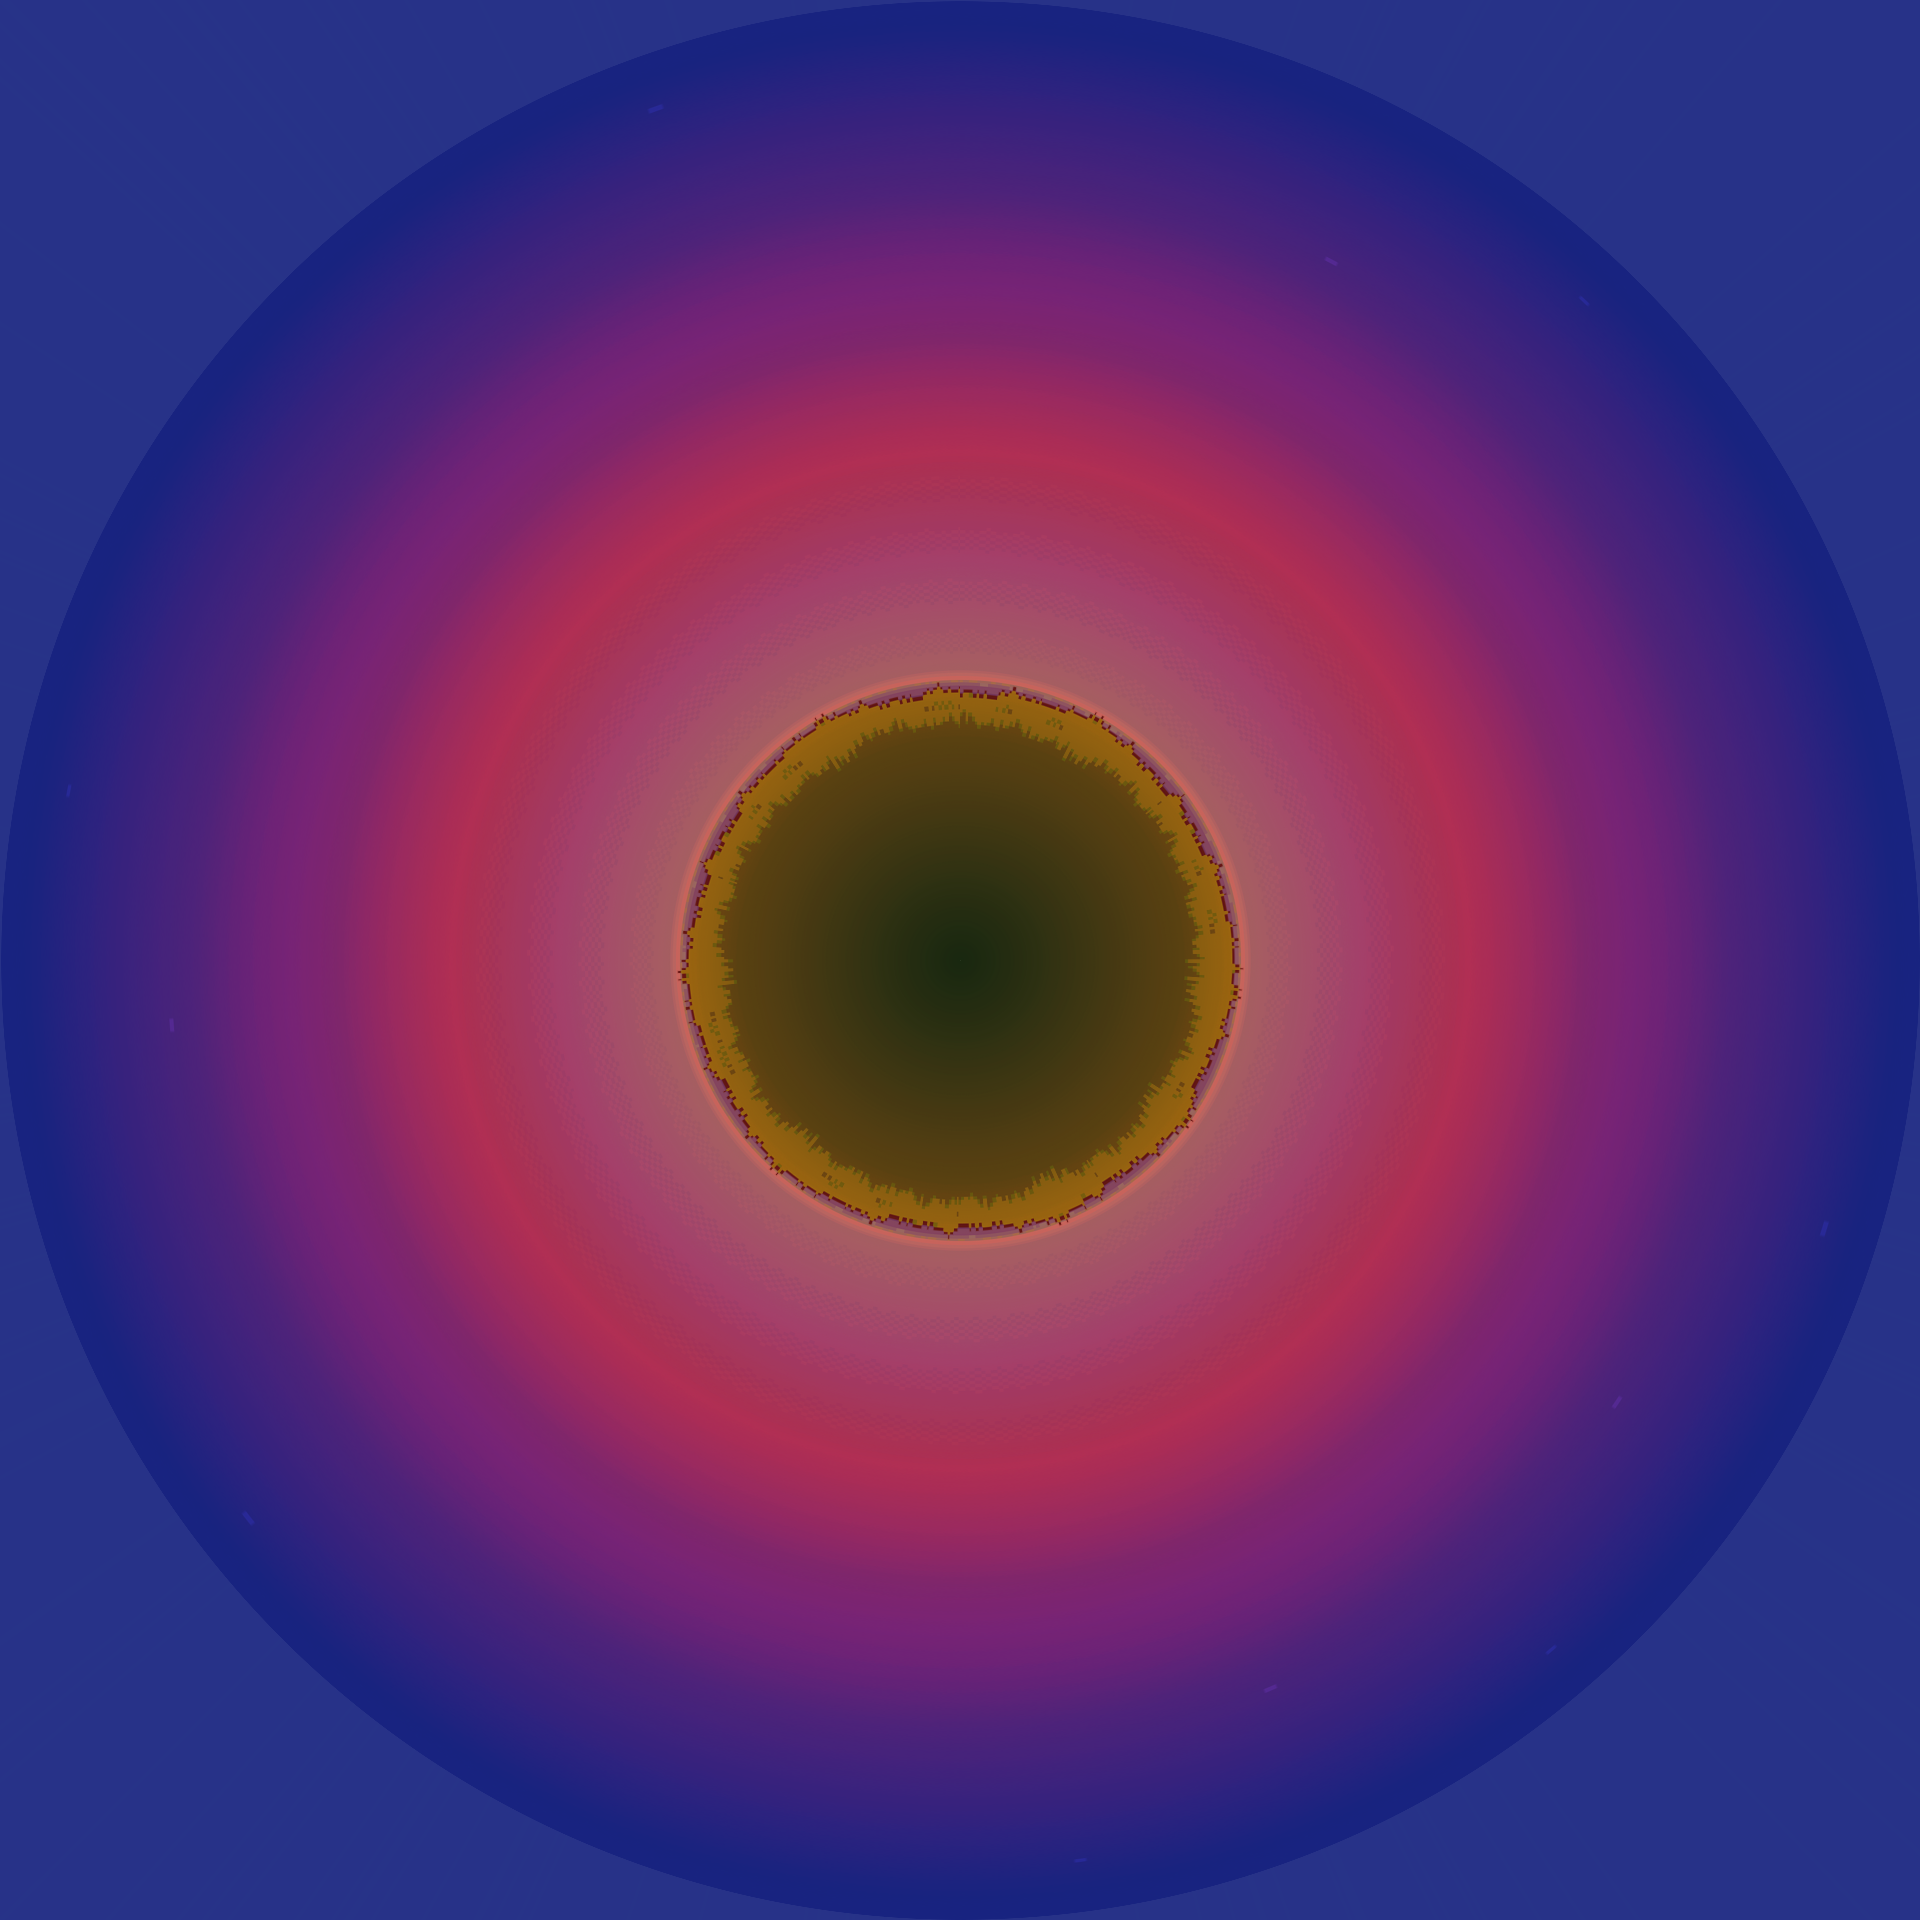
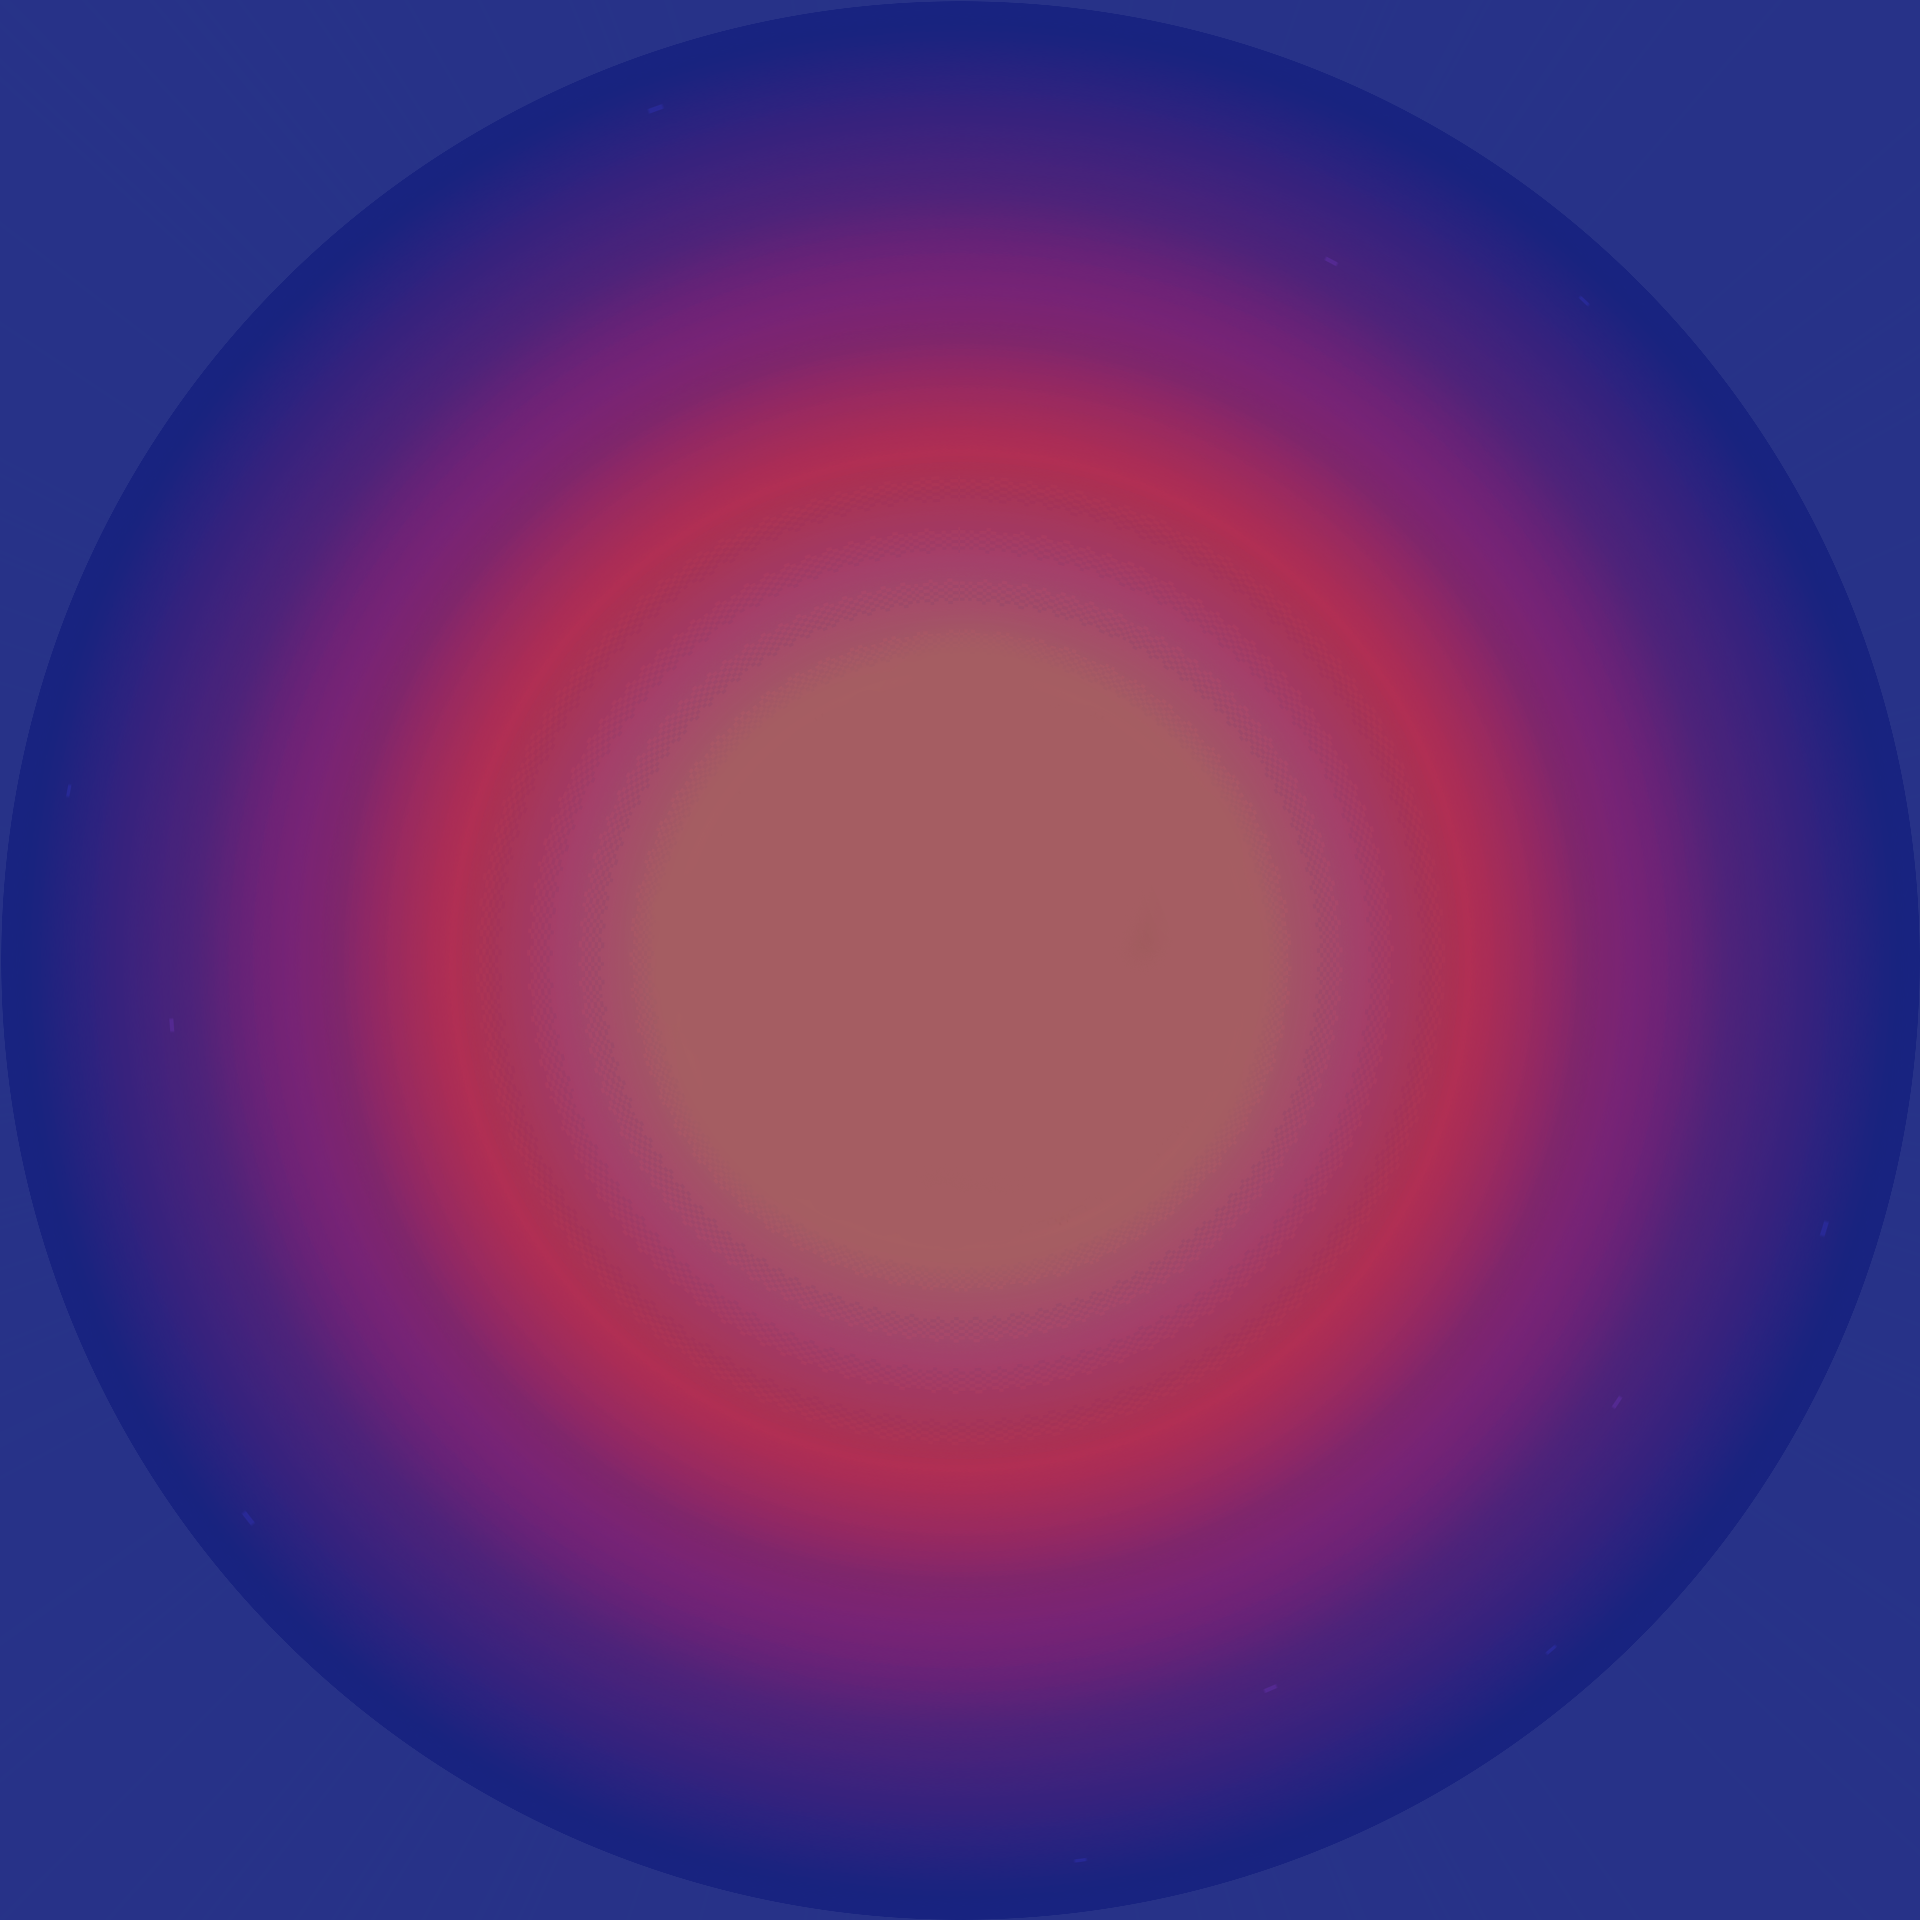
Fixed Background and sun textures. Able to adjust planet radius, sun radius and its distance from the planets surface

Changed region(s): [[0.3438, 0.3438, 0.6562, 0.6562]]

diff --git a/AlpacGame/scenery/DayCycle/DayCycle.cpp b/AlpacGame/scenery/DayCycle/DayCycle.cpp
@@ -1,5 +1,7 @@
+#include <vector>
 
 #include "DayCycle.h"
+
 
 // TODO: IMPORTANT Fix Background Size and Origin with different PlanetSize. :(
 
@@ -14,18 +16,22 @@ DayCycle::DayCycle(ConfigGame *configGame) {
     float world_y = configGame->planetBody->GetWorldCenter().y * SCALE;
 
     /// Intialize Background
-    background = new sf::CircleShape(1920+ configGame->planetRadius/2 );
-    background->setOrigin(1920+ configGame->planetRadius/2, 1920+ configGame->planetRadius/2);
+    background = new sf::CircleShape(3000 );
+    background->setOrigin(3000, 3000);
     background->setPosition(world_x, world_y);
     background->setTexture(&configGame->morning_1);
+
+    earth = new sf::CircleShape(configGame->planetRadius+30);
+    earth->setOrigin(configGame->planetRadius+30, configGame->planetRadius +30);
+    earth->setPosition(world_x, world_y);
+    earth->setTexture(&configGame->earth_1);
 
     /// Initialize Sun
     sun = new sf::CircleShape(sunRadius);
     sun->setOrigin(sunRadius, sunRadius);
     sun->setTexture(&configGame->sun_1);
 
-    /// Iterate amove the pictures
-    currentBG = backgroundCycle::MORNING_1;
+    /// Iterate amove the picture
 
     //Reset timer right away
     cycleChrono.reset(true);
@@ -39,74 +45,69 @@ DayCycle::DayCycle(ConfigGame *configGame) {
     float dayTime = cycleTime * 12;
     sunTick = 1.f / ((23.f * dayTime) / 2);
 
+    bgCycle.push_back(&configGame->morning_1);
+    bgCycle.push_back(&configGame->morning_2);
+    bgCycle.push_back(&configGame->morning_3);
+    bgCycle.push_back(&configGame->afternoon_4);
+    bgCycle.push_back(&configGame->afternoon_5);
+    bgCycle.push_back(&configGame->afternoon_6);
+    bgCycle.push_back(&configGame->evening_7);
+    bgCycle.push_back(&configGame->evening_8);
+    bgCycle.push_back(&configGame->evening_9);
+    bgCycle.push_back(&configGame->night_10);
+    bgCycle.push_back(&configGame->night_11);
+    bgCycle.push_back(&configGame->night_12);
+
+    earthCycle.push_back(&configGame->earth_1);
+    earthCycle.push_back(&configGame->earth_2);
+    earthCycle.push_back(&configGame->earth_3);
+    earthCycle.push_back(&configGame->earth_4);
+    earthCycle.push_back(&configGame->earth_5);
+    earthCycle.push_back(&configGame->earth_6);
+    earthCycle.push_back(&configGame->earth_7);
+    earthCycle.push_back(&configGame->earth_8);
+    earthCycle.push_back(&configGame->earth_9);
+    earthCycle.push_back(&configGame->earth_10);
+    earthCycle.push_back(&configGame->earth_11);
+    earthCycle.push_back(&configGame->earth_12);
+
+
     
-    
-}
-
-void DayCycle::loopDayCycle() {
-
-    switch(currentBG){
-        /// Day Starts
-        case backgroundCycle ::MORNING_1:{
-            background->setTexture(&configGame->morning_1);
-            sun->setTexture(&configGame->sun_1);
-            configGame->setCurrentCycle(ConfigGame::Cycle::DAY);
-            break;}
-        case backgroundCycle ::MORNING_2:{      background->setTexture(&configGame->morning_2); break;}
-        case backgroundCycle ::MORNING_3:{      background->setTexture(&configGame->morning_3); break;}
-        case backgroundCycle ::AFTERNOON_4:{    background->setTexture(&configGame->afternoon_4);   sun->setTexture(&configGame->sun_2);   break;}
-        case backgroundCycle ::AFTERNOON_5:{    background->setTexture(&configGame->afternoon_5); break;}
-        case backgroundCycle ::AFTERNOON_6:{    background->setTexture(&configGame->afternoon_6); break;}
-
-            /// Night Starts TODO:
-        case backgroundCycle ::EVENING_7:{
-            background->setTexture(&configGame->evening_7);
-            sun->setTexture(&configGame->moon_1);
-            configGame->setCurrentCycle(ConfigGame::Cycle::NIGHT);
-            break;}
-        case backgroundCycle ::EVENING_8:{      background->setTexture(&configGame->evening_8); break;}
-        case backgroundCycle ::EVENING_9:{     background->setTexture(&configGame->evening_9); break;}
-        case backgroundCycle ::NIGHT_10:{      background->setTexture(&configGame->night_10); break;}
-        case backgroundCycle ::NIGHT_11:{      background->setTexture(&configGame->night_11); break;}
-        case backgroundCycle ::NIGHT_12:{      background->setTexture(&configGame->night_12); break;}
-    }
-
 }
 
 void DayCycle::update(){
     updateSunMovement();
 
-
     if(cycleChrono.getElapsedTime().asSeconds() >= cycleTime){
 
-        if(currentBG == backgroundCycle::MORNING_1)         currentBG = backgroundCycle ::MORNING_2;
-        else if(currentBG == backgroundCycle::MORNING_2)    currentBG = backgroundCycle ::MORNING_3;
-        else if(currentBG == backgroundCycle::MORNING_3)    currentBG = backgroundCycle ::AFTERNOON_4;
-        else if(currentBG == backgroundCycle::AFTERNOON_4)  currentBG = backgroundCycle ::AFTERNOON_5;
-        else if(currentBG == backgroundCycle::AFTERNOON_5)  currentBG = backgroundCycle ::AFTERNOON_6;
-        else if(currentBG == backgroundCycle::AFTERNOON_6)  currentBG = backgroundCycle ::EVENING_7;
-        else if(currentBG == backgroundCycle::EVENING_7)    currentBG = backgroundCycle ::EVENING_8;
-        else if (currentBG == backgroundCycle::EVENING_8)   currentBG = backgroundCycle ::EVENING_9;
-        else if(currentBG == backgroundCycle::EVENING_9)    currentBG = backgroundCycle ::NIGHT_10;
-        else if(currentBG == backgroundCycle::NIGHT_10)     currentBG = backgroundCycle ::NIGHT_11;
-        else if(currentBG == backgroundCycle::NIGHT_11)     currentBG = backgroundCycle ::NIGHT_12;
-        else if (currentBG == backgroundCycle::NIGHT_12)    currentBG = backgroundCycle ::MORNING_1;
+        counterBackground++;
+        if(counterBackground >= 12 ) counterBackground = 0;
 
-      //  std::cout << cycleChrono.getElapsedTime().asSeconds() << std::endl;
+        // Day
+        if(counterBackground == 0){
+            configGame->setCurrentCycle(ConfigGame::Cycle::DAY);
+            sun->setTexture(&configGame->sun_1);
+        }
+
+        else if (counterBackground == 5){
+            configGame->setCurrentCycle(ConfigGame::Cycle::NIGHT);
+            sun->setTexture(&configGame->moon_1);
+        }
+
+        earth->setTexture(earthCycle.at(counterBackground));
+        background->setTexture(bgCycle.at(counterBackground));
         cycleChrono.reset(true);
     }
 
 
-
     /// Change Picture
-    loopDayCycle();
 
 }
 
 void DayCycle::updateSunMovement() {
 
-    float x = configGame->planetBody->GetWorldCenter().x *SCALE + cos(sunAngle) * configGame->planetRadius * 2;
-    float y = configGame->planetBody->GetWorldCenter().y *SCALE + sin(sunAngle) * configGame->planetRadius * 2;
+    float x = configGame->planetBody->GetWorldCenter().x * SCALE + cos(sunAngle) * (configGame->planetRadius + sunDistance);
+    float y = configGame->planetBody->GetWorldCenter().y * SCALE + sin(sunAngle) * (configGame->planetRadius + sunDistance);
 
     sun->setPosition(x,y);
     sunAngle += sunTick;
@@ -115,6 +116,7 @@ void DayCycle::updateSunMovement() {
 void DayCycle::render(sf::RenderWindow *window) {
 
     window->draw(*background);
+    window->draw(*earth);
     window->draw(*sun);
 
 }

diff --git a/AlpacGame/scenery/DayCycle/DayCycle.h b/AlpacGame/scenery/DayCycle/DayCycle.h
@@ -7,30 +7,34 @@
 #include <Box2D/Box2D.h>
 #include <chrono>
 
-#include "../../Resources/ConfigGame.h"
 #include "../Scenery.h"
+#include "../../Resources/ConfigGame.h"
 
+class ConfigGame;
 class DayCycle : public Scenery{
 
 private:
+
+
     /// Time for each background transition
-    float cycleTime = 10.0f;
+    float cycleTime = 5.0f;
 
+    /// Distance of the sun from the planets surface.
+    float sunDistance = 350.0f;
     /// Radius for the Sun
-    float sunRadius = 200.f;
+    float sunRadius = 250.f;
 
-    /// Sun starting point. Could fix this later on.
+    /// Starting point
     float sunAngle = 210.f;
 
 public:
 
-    DayCycle(ConfigGame *configGame);
+    DayCycle (ConfigGame *configGame);
 
     sf::Shape *background = nullptr;
+    sf::Shape *earth = nullptr;
+
     sf::Shape *sun = nullptr;
-
-
-
 
 private:
 
@@ -42,18 +46,19 @@ private:
     ConfigGame *configGame = nullptr;
     sftools::Chronometer cycleChrono;
 
-    enum class backgroundCycle{MORNING_1, MORNING_2, MORNING_3,
-                         AFTERNOON_4, AFTERNOON_5, AFTERNOON_6,
-                         EVENING_7, EVENING_8, EVENING_9,
-                         NIGHT_10, NIGHT_11, NIGHT_12};
-
-    backgroundCycle currentBG;
-    
     /// Overall movement including the sun and clouds.
     void updateSunMovement();
 
     /// The change in angle for the sun at each tick.
     float sunTick;
+
+    unsigned int counterBackground = 0;
+
+    std::vector<sf::Texture *> bgCycle;
+    std::vector<sf::Texture *> earthCycle;
+
+
+
 };
 
 

diff --git a/AlpacGame/Resources/ConfigGame.h b/AlpacGame/Resources/ConfigGame.h
@@ -10,6 +10,7 @@
 #include "../entity/EntityWarm.h"
 #include "../Resources/SpriteInfo.h"
 #include "../scenery/Scenery.h"
+#include "../scenery/DayCycle/DayCycle.h"
 
 
 /**
@@ -29,7 +30,7 @@ public:
     /**
      * The radius of the planet.
      */
-    unsigned int planetRadius = 600;
+    unsigned int planetRadius = 700;
 
     bool newGame = true;
 
@@ -128,6 +129,19 @@ public:
     sf::Texture night_11;
     sf::Texture night_12;
 
+    sf::Texture earth_1;
+    sf::Texture earth_2;
+    sf::Texture earth_3;
+    sf::Texture earth_4;
+    sf::Texture earth_5;
+    sf::Texture earth_6;
+    sf::Texture earth_7;
+    sf::Texture earth_8;
+    sf::Texture earth_9;
+    sf::Texture earth_10;
+    sf::Texture earth_11;
+    sf::Texture earth_12;
+
     sf::Texture sun_1;
     sf::Texture sun_2;
     sf::Texture moon_1;
@@ -141,6 +155,7 @@ public:
     std::map<EntityWarm::Action, SpriteInfo> alpacaSprites;
     std::map<EntityWarm::Action, SpriteInfo> farmerSpritesWithoutHands;
     std::map<EntityWarm::Action, SpriteInfo> farmerSpritesWithHands;
+    //std::map<DayCycle::BackgroundCycle , sf::Texture> backgroundTextures;
 
 
 private:

diff --git a/AlpacGame/Resources/ConfigGame.cpp b/AlpacGame/Resources/ConfigGame.cpp
@@ -82,6 +82,21 @@ void ConfigGame::loadAllTextures() {
     night_11.loadFromFile("scenery/DayCycle/11_Night.png");
     night_12.loadFromFile("scenery/DayCycle/12_Night.png");
 
+    earth_1.loadFromFile("scenery/DayCycle/Earth_1.png");
+    earth_2.loadFromFile("scenery/DayCycle/Earth_2.png");
+    earth_3.loadFromFile("scenery/DayCycle/Earth_3.png");
+    earth_4.loadFromFile("scenery/DayCycle/Earth_4.png");
+    earth_5.loadFromFile("scenery/DayCycle/Earth_5.png");
+    earth_6.loadFromFile("scenery/DayCycle/Earth_6.png");
+    earth_7.loadFromFile("scenery/DayCycle/Earth_7.png");
+    earth_8.loadFromFile("scenery/DayCycle/Earth_8.png");
+    earth_9.loadFromFile("scenery/DayCycle/Earth_9.png");
+    earth_10.loadFromFile("scenery/DayCycle/Earth_10.png");
+    earth_11.loadFromFile("scenery/DayCycle/Earth_11.png");
+    earth_12.loadFromFile("scenery/DayCycle/Earth_12.png");
+
+    // Background frames
+
     sun_1.loadFromFile("scenery/DayCycle/Sun_1.png");
     sun_2.loadFromFile("scenery/DayCycle/Sun_2.png");
     moon_1.loadFromFile("scenery/DayCycle/Moon_1.png");

diff --git a/AlpacGame/state/StateGame.cpp b/AlpacGame/state/StateGame.cpp
@@ -20,7 +20,7 @@ void StateGame::goNext(StateMachine &stateMachine) {
         planet = configGame->planet;
         farmer = dynamic_cast<Farmer *> (configGame->farmer);
         dayCycle = dynamic_cast<DayCycle *>(configGame->dayCycle);
-        
+
         configGame->newGame = false;
     }
 
